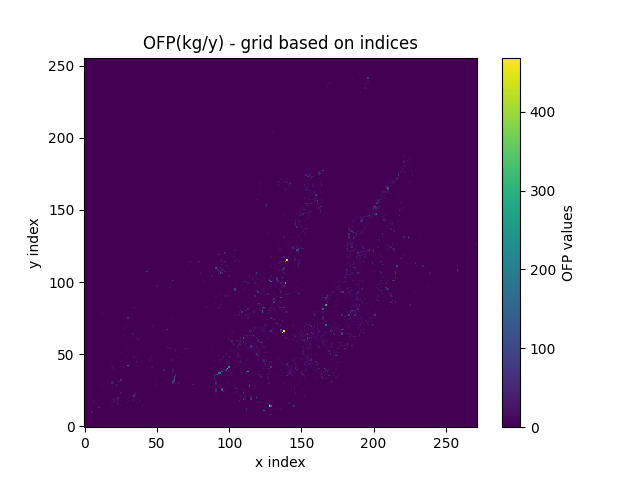
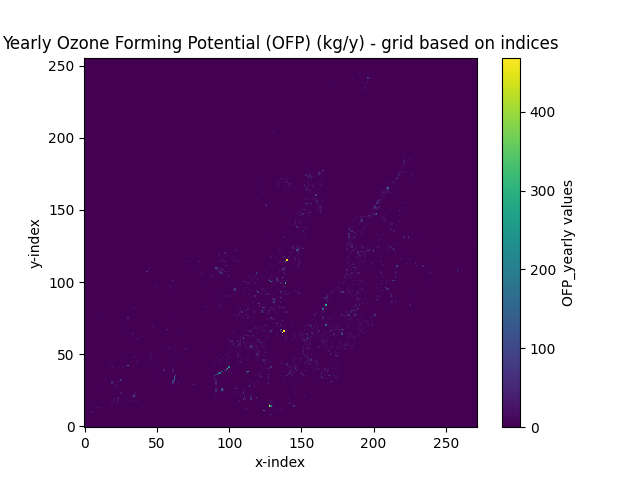
Changes made on 11.12 17.30

diff --git a/execution_file_windows.py b/execution_file_windows.py
@@ -224,65 +224,64 @@ original_cmap = plt.get_cmap('YlOrRd')
 N = 256
 colors = original_cmap(np.linspace(0,1,N))
 for i in range(N):
-    if i < 15:  # Replace the first 50 colors (adjust as needed for violet range)
+    if i > 230:  # Replace the first 50 colors (adjust as needed for violet range)
         colors[i] = [1.0, 1.0, 1.0, 1.0]  # RGBA for white
 modified_cmap = ListedColormap(colors)
 
 # OFP #
 plt.figure(1)
 plt.imshow(grid_OFP_np, origin='lower', cmap='viridis', interpolation='nearest')
-plt.title("OFP(kg/y) - grid based on indices")
-plt.xlabel("x index")
-plt.ylabel("y index")
-plt.colorbar(label = "OFP values")
+plt.title("Yearly Ozone Forming Potential (OFP) (kg/y) - grid based on indices")
+plt.xlabel("x-index")
+plt.ylabel("y-index")
+plt.colorbar(label = "OFP_yearly values")
 plt.savefig(f'Results/OFP_map_{NR_LINES_GE}_indices.png')
 
 plt.clf()
 plt.figure(2)
 plt.imshow(coordinate_grid(grid_OFP_np, gridsize) , origin='lower', cmap='viridis', interpolation='nearest') 
-plt.title("OFP (kg/y) - grid based on real coordinates")
-plt.xlabel("x index")
-plt.ylabel("y index")
-plt.colorbar(label = "OFP values")
+plt.title("Yearly Ozone Forming Potential (OFP) (kg/y) - grid based on real coordinates")
+plt.xlabel("x-coordinates")
+plt.ylabel("y-coordinates")
+plt.colorbar(label = "OFP_yearly values")
 plt.savefig(f'Results/OFP_map_{NR_LINES_GE}.png')
 
-# PM10 #
-PM10_ydim, PM10_xdim = grid_PM10_np.shape 
+# PM10 # 
 plt.clf()
 plt.figure(1)
 plt.imshow(grid_PM10_np, origin='lower', cmap='viridis', interpolation='nearest')
-plt.title("PM10 (kg/y) - grid based on indices")
+plt.title("Yearly PM10 Deposition (kg/y) - grid based on indices")
 plt.xlabel("x index")
 plt.ylabel("y index")
-plt.colorbar(label = "PM10 values")
+plt.colorbar(label = "PM10_yearly values")
 plt.savefig(f'Results/PM10_map_{NR_LINES_GE}_indices.png')
 
 plt.clf()
 plt.figure(2)
 plt.imshow(coordinate_grid(grid_PM10_np, gridsize), origin='lower', cmap='viridis', interpolation='nearest') 
-plt.title("PM10 (kg/y) - grid based on real coordinates")
-plt.xlabel("x index")
-plt.ylabel("y index")
-plt.colorbar(label = "PM10 values")
+plt.title("Yearly PM10 Deposition (kg/y) - grid based on real coordinates")
+plt.xlabel("x-coordinates")
+plt.ylabel("y-coordinates")
+plt.colorbar(label = "PM10_yearly values")
 plt.savefig(f'Results/PM10_map_{NR_LINES_GE}.png')
 
 #O3_uptake
 plt.clf()
 plt.figure(1)
 plt.imshow(grid_O3_np, origin='lower', cmap='viridis', interpolation='nearest')
-plt.title("O3 absorbed (kg/y) - grid based on indices")
+plt.title("Yearly amount of O3 absorbed (kg/y) - grid based on indices")
 plt.xlabel("x index")
 plt.ylabel("y index")
-plt.colorbar(label = "O3 values")
+plt.colorbar(label = "O3_removed_mass values")
 plt.savefig(f'Results/O3_map_{NR_LINES_GE}_indices.png')
 
 plt.clf()
 plt.figure(2)
 plt.imshow(coordinate_grid(grid_O3_np, gridsize), origin='lower', cmap='viridis', interpolation='nearest') 
-plt.title("O3 absorbed (kg/y) - grid based on real coordinates")
-plt.xlabel("x index")
-plt.ylabel("y index")
-plt.colorbar(label = "O3 values")
+plt.title("Yearly amount of O3 absorbed (kg/y) - grid based on real coordinates")
+plt.xlabel("x-coordinates")
+plt.ylabel("y-coordinates")
+plt.colorbar(label = "O3_removed_mass values")
 plt.savefig(f'Results/O3_map_{NR_LINES_GE}.png')
 
 # O3__net_uptake #
@@ -290,21 +289,21 @@ plt.savefig(f'Results/O3_map_{NR_LINES_GE}.png')
 plt.clf()
 plt.figure(1)
 plt.imshow(grid_O3_net_uptake_np, origin='lower', cmap='YlOrRd', interpolation= 'nearest')
-plt.title("Net O3 (kg/y) - grid based on indices")
+plt.title("Yearly net amount of O3 absorbed (kg/y) - grid based on indices")
 plt.xlabel("x index")
 plt.ylabel("y index")
-plt.colorbar(label = "O3 values")
-plt.savefig(f'Results/O3_uptake_map_{NR_LINES_GE}_indices.png')
-plt.clf()
+plt.colorbar(label = "O3_net_removed_mass values")
+plt.savefig(f'Results/O3_net_uptake_map_{NR_LINES_GE}_indices.png')
+
 
 plt.clf()
 plt.figure(2)
 plt.imshow(coordinate_grid(grid_O3_net_uptake_np, gridsize), origin='lower', cmap='YlOrRd', interpolation= 'nearest') 
-plt.title("Net O3 (kg/y) - grid based on real coordinates")
-plt.xlabel("x index")
-plt.ylabel("y index")
-plt.colorbar(label = "O3 values")
-plt.savefig(f'Results/O3_uptake_map_{NR_LINES_GE}.png')
+plt.title("Yearly net amount of O3 absorbed (kg/y) - grid based on real coordinates")
+plt.xlabel("x-coordinates")
+plt.ylabel("y-coordinates")
+plt.colorbar(label = "O3_net_removed_mass values")
+plt.savefig(f'Results/O3_net_uptake_map_{NR_LINES_GE}.png')
 print("This was the last grid. We are done here:).")
 #-------------------------------------free memory-----------------------------------------------
 free_grid(grid_O3)

diff --git a/execution_file_mac.py b/execution_file_mac.py
@@ -228,7 +228,7 @@ plt.savefig(f'Results/OFP_map_{NR_LINES_GE}_indices.png')
 
 plt.clf()
 plt.figure(2)
-plt.imshow(coordinate_grid(grid_OFP_np, gridsize) , origin='lower', cmap=modified_cmap, interpolation='nearest') 
+plt.imshow(coordinate_grid(grid_OFP_np, gridsize) , origin='lower', cmap='copper', interpolation='nearest') 
 plt.title("OFP (kg/y) - grid based on real coordinates")
 plt.xlabel("x index")
 plt.ylabel("y index")

diff --git a/README.md b/README.md
@@ -31,11 +31,14 @@ Inputs:
 - "*Data/shading_coeff.csv.*" is a semicolon-delimited file.
 
 Outputs: 
-- "*Results/OFP_map_amount_of_trees_indices*" is a figure depicting the yearly ozone forming potential distribution within the canton depending on the indices.
-"*Results/OFP_map_amount_of_trees*" is a figure depicting the yearly ozone forming potential distribution within the canton in coordinates. 
-- "*Results/PM10_map_amount_of_trees_indices*" is a figure depicting the yearly PM10 uptake distribution within the canton depending on indices.
-"*Results/PM10_map_amount_of_trees*" is a figure depicting the yearly PM10 uptake distribution within the canton in coordinates.
-- "*Results/Figure_Ozone_Uptake*" is a figure depicting the yearly net ozone uptake distribution within the canton.
+- "*Results/OFP_{map_amount_of_trees}_indices.png*" is a figure depicting the yearly ozone forming potential distribution within the canton depending on the grid indices.
+"*Results/OFP_{map_amount_of_trees}.png*" is a figure depicting the yearly ozone forming potential distribution within the canton in coordinates. 
+- "*Results/PM10_{map_amount_of_trees_indices}.png*" is a figure depicting the yearly PM10 uptake distribution within the canton depending on grid indices.
+"*Results/PM10_map_{amount_of_trees}.png*" is a figure depicting the yearly PM10 uptake distribution within the canton in coordinates.
+- "*Results/O3_map_{amount_of_trees}_indices.png*" is a figure depicting the yearly ozone uptake distribution within the canton depending on the grid indices.
+- "*Results/O3_map_{amount_of_trees}.png*" is a figure depicting the yearly ozone uptake distribution within the canton in coordinates.
+- "*Results/O3_net_uptake_map_{amount_of_trees}_indices.png*" is a figure depicting the yearly net ozone uptake distribution within the canton depending on the grid indices.
+- "*Results/O3_net_uptake_map_{amount_of_trees}.png*" is a figure depicting the yearly net ozone uptake distribution within the canton in coordinates.
 - "*/Results/summary.txt*" contains summary of parameters used and the total values computed, as well as the runtime of the program.
 - "*Results/trees_GE.csv*" is a semicolon-delimited file. It contains the first information regarding the trees within our scope of our analysis. It serves as control file and can be deleted as used.
 
@@ -161,3 +164,6 @@ Certain variables, such as "*gridsize*" or "*leaves_days*", as well as  computat
 
 ## Usage of AI
 Artificial Intelligence such as ChatGPT(Version: GPT-4V (Vision) architecture) and Microsoft Copilot (Version: Microsoft Copilot, powered by GPT-4. (2024)) was used in this project. The main use concerned explaining certain code, such as the implementation of *ctypes*, and debugging of code. The function "*my_strndup*", located in "*Functions/b_extract_data_and_memory*", was entirely created by ChatGPT.
+
+## Reflection and Outlook
+This program is strongly restricted by memory and time. This problem could be solved by using pandas instead of simple string comparison in the file "*/Functions/e_filter_trees.py*", such that the program runs faster and all of the data could be taken into account. The decision of using Ctypes in our python execution file helped us to run other computations very fast and dynamically allocate memory. This choice is therefore justified and recommendable. Moreover, one could decide to implement a computation for a two dimensional normal distribution or a latin hypercurbe in */Functions/b_extract_data_and_memory*" to calculate missing values for measured height and crown diameter.
